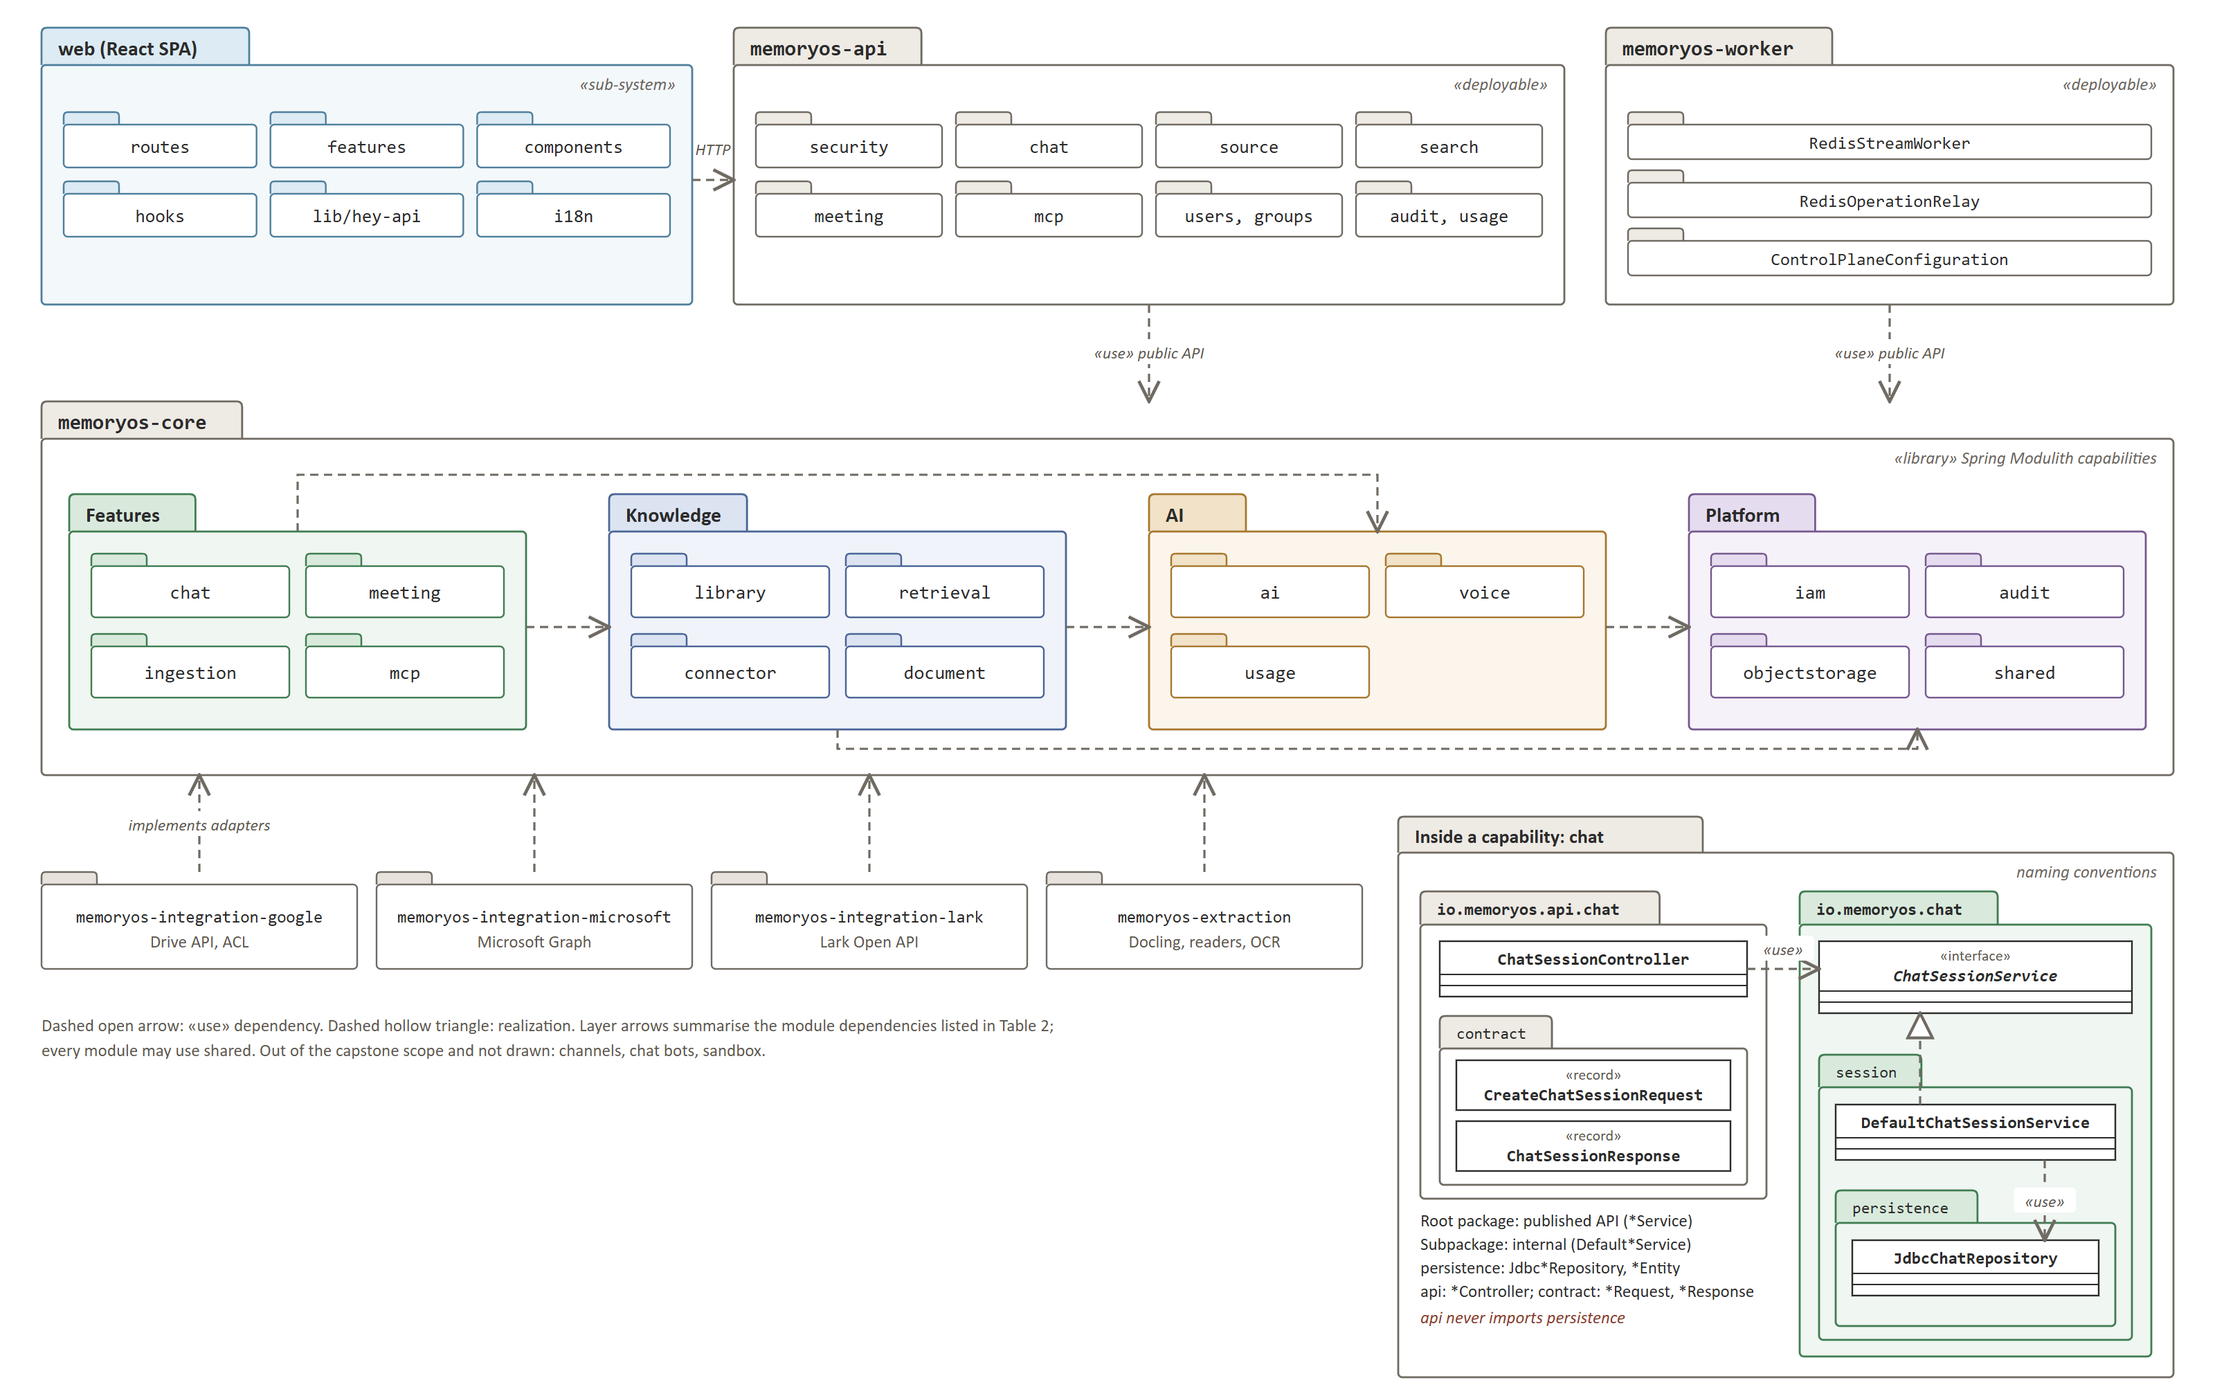
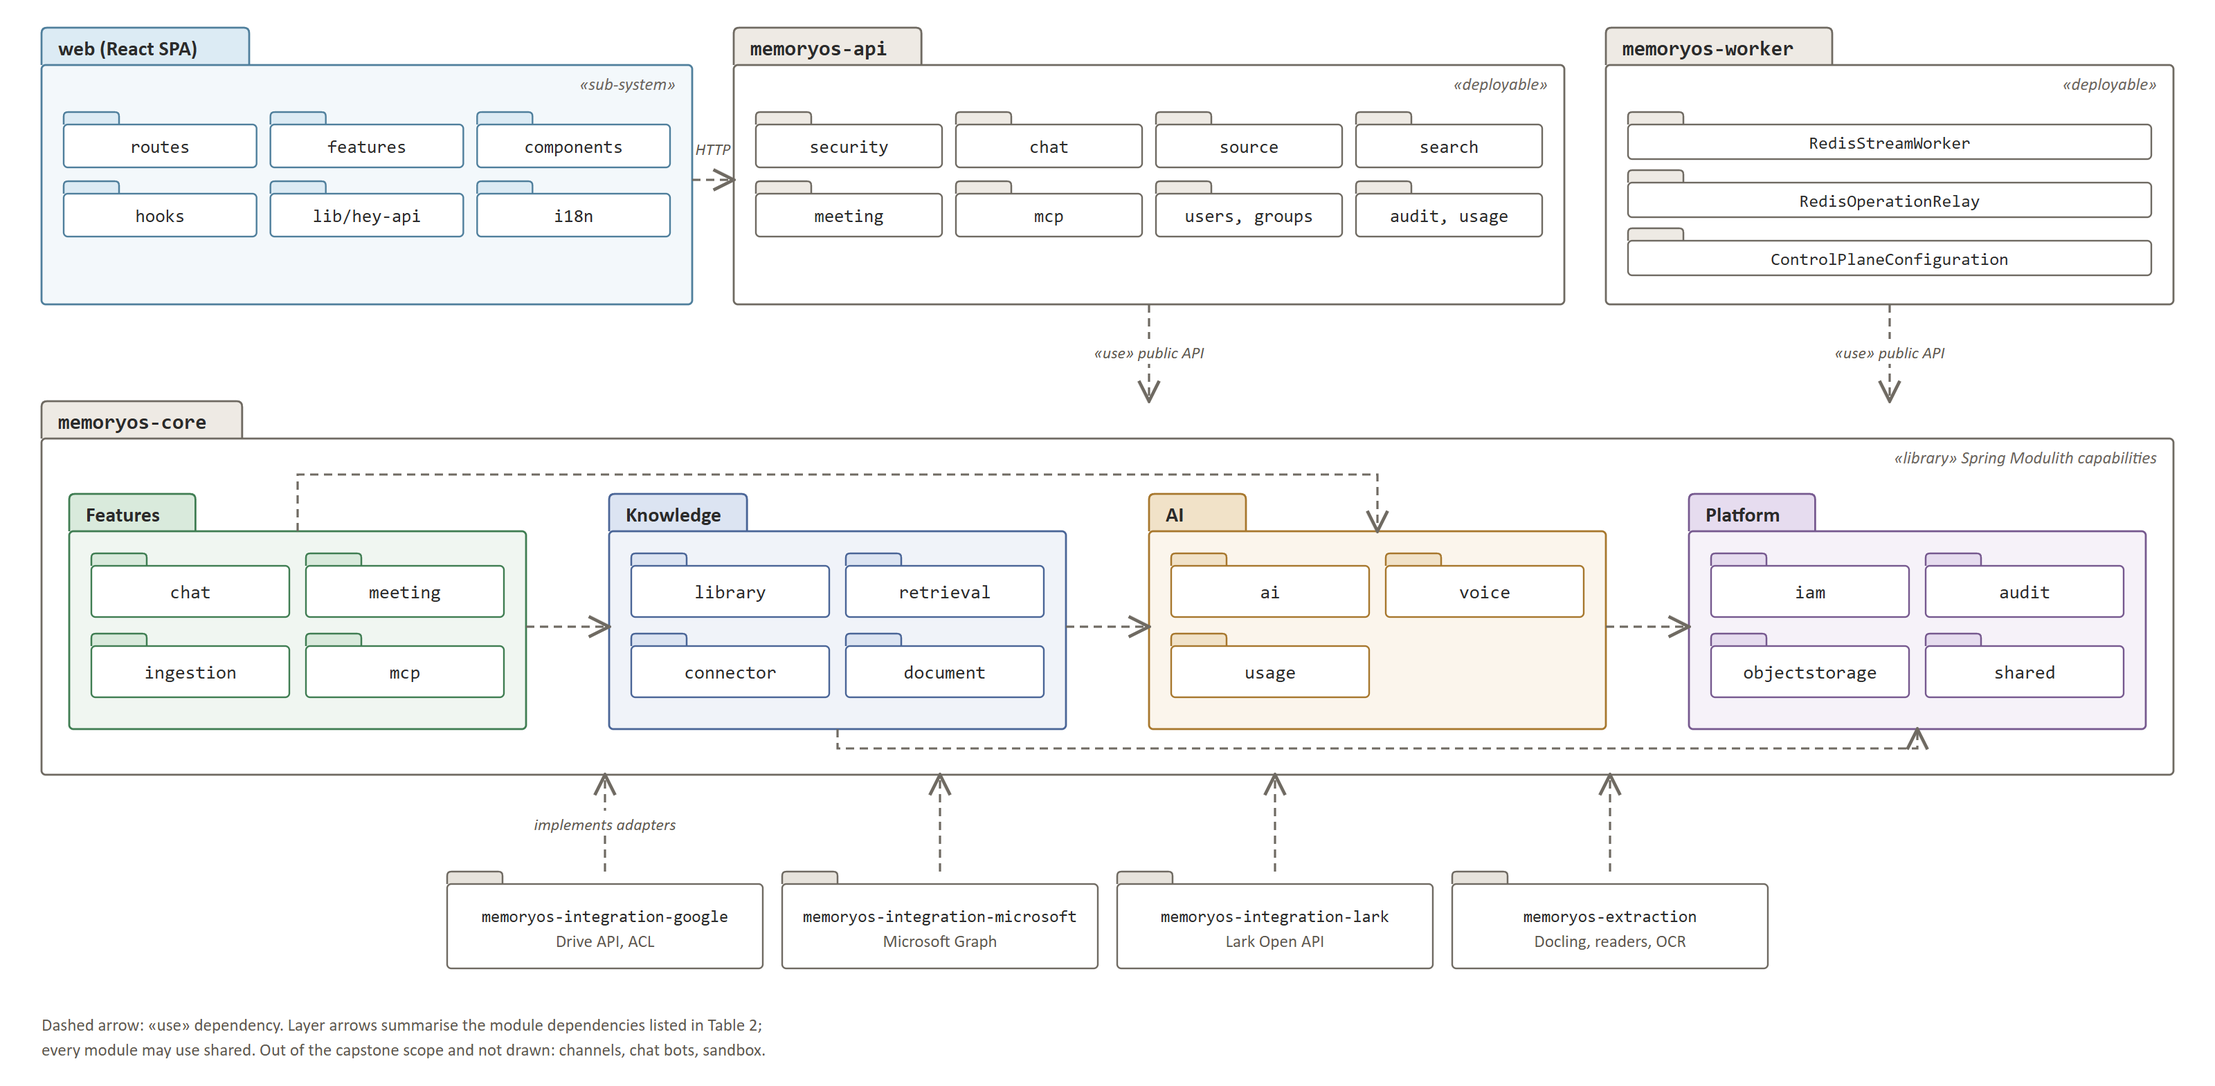
docs(sep490): drop the class inset from the Report 4 package diagram
The naming conventions move to Table 2; class diagrams belong to
section II.

diff --git a/docs/academic/sep490/diagrams/r4-package-diagram.html b/docs/academic/sep490/diagrams/r4-package-diagram.html
@@ -1,7 +1,7 @@
 <!doctype html><html lang="en"><head><meta charset="utf-8"><title>MemoryOS Package Diagram</title>
-<style>body{margin:0;background:#fff}svg{display:block}</style></head><body><svg id="diagram" xmlns="http://www.w3.org/2000/svg" viewBox="0 0 1600 1010" width="1600" height="1010">
-<defs><marker id="tri" viewBox="0 0 14 14" refX="13" refY="7" markerWidth="13" markerHeight="13" orient="auto-start-reverse"><path d="M1 1 L13 7 L1 13 Z" fill="#ffffff" stroke="#6f6a62" stroke-width="1.4"/></marker><marker id="open" viewBox="0 0 12 12" refX="11" refY="6" markerWidth="11" markerHeight="11" orient="auto-start-reverse"><path d="M1 1 L11 6 L1 11" fill="none" stroke="#6f6a62" stroke-width="1.6"/></marker></defs>
-<rect width="1600" height="1010" fill="#ffffff"/>
+<style>body{margin:0;background:#fff}svg{display:block}</style></head><body><svg id="diagram" xmlns="http://www.w3.org/2000/svg" viewBox="0 0 1600 785" width="1600" height="785">
+<defs><marker id="open" viewBox="0 0 12 12" refX="11" refY="6" markerWidth="11" markerHeight="11" orient="auto-start-reverse"><path d="M1 1 L11 6 L1 11" fill="none" stroke="#6f6a62" stroke-width="1.6"/></marker></defs>
+<rect width="1600" height="785" fill="#ffffff"/>
 <path d="M30 47 V24 q0 -4 4 -4 H176 q4 0 4 4 V47" fill="#dcebf4" stroke="#4f7f9c" stroke-width="1.4"/>
 <rect x="30" y="47" width="470" height="173" rx="3" fill="#f3f8fb" stroke="#4f7f9c" stroke-width="1.4"/>
 <text x="42" y="40" font-family="Calibri, 'Segoe UI', Arial, sans-serif" font-size="15" font-weight="700" fill="#2b2b2b">web (React SPA)</text>
@@ -139,78 +139,28 @@
 <path d="M1365 220 L1365 290" fill="none" stroke="#6f6a62" stroke-width="1.6" stroke-dasharray="6 4" marker-end="url(#open)"/>
 <rect x="1306.2" y="245" width="117.6" height="18" rx="3" fill="#ffffff"/>
 <text x="1365" y="259" text-anchor="middle" font-family="Calibri, 'Segoe UI', Arial, sans-serif" font-size="12" font-weight="400" font-style="italic" fill="#5d574f">«use» public API</text>
-<path d="M30 639 V633 q0 -3 3 -3 H67 q3 0 3 3 V639" fill="#e7e3dc" stroke="#6f6a62" stroke-width="1.2"/>
-<rect x="30" y="639" width="228" height="61" rx="3" fill="#ffffff" stroke="#6f6a62" stroke-width="1.2"/>
-<text x="144" y="666.5" text-anchor="middle" font-family="'JetBrains Mono', Consolas, monospace" font-size="12" font-weight="400"  fill="#2b2b2b">memoryos-integration-google</text>
-<text x="144" y="684.5" text-anchor="middle" font-family="Calibri, 'Segoe UI', Arial, sans-serif" font-size="12.5" font-weight="400"  fill="#5d574f">Drive API, ACL</text>
-<path d="M144 630 L144 560" fill="none" stroke="#6f6a62" stroke-width="1.6" stroke-dasharray="6 4" marker-end="url(#open)"/>
-<rect x="75.30000000000001" y="586" width="137.39999999999998" height="18" rx="3" fill="#ffffff"/>
-<text x="144" y="600" text-anchor="middle" font-family="Calibri, 'Segoe UI', Arial, sans-serif" font-size="12" font-weight="400" font-style="italic" fill="#5d574f">implements adapters</text>
-<path d="M272 639 V633 q0 -3 3 -3 H309 q3 0 3 3 V639" fill="#e7e3dc" stroke="#6f6a62" stroke-width="1.2"/>
-<rect x="272" y="639" width="228" height="61" rx="3" fill="#ffffff" stroke="#6f6a62" stroke-width="1.2"/>
-<text x="386" y="666.5" text-anchor="middle" font-family="'JetBrains Mono', Consolas, monospace" font-size="12" font-weight="400"  fill="#2b2b2b">memoryos-integration-microsoft</text>
-<text x="386" y="684.5" text-anchor="middle" font-family="Calibri, 'Segoe UI', Arial, sans-serif" font-size="12.5" font-weight="400"  fill="#5d574f">Microsoft Graph</text>
-<path d="M386 630 L386 560" fill="none" stroke="#6f6a62" stroke-width="1.6" stroke-dasharray="6 4" marker-end="url(#open)"/>
-<path d="M514 639 V633 q0 -3 3 -3 H551 q3 0 3 3 V639" fill="#e7e3dc" stroke="#6f6a62" stroke-width="1.2"/>
-<rect x="514" y="639" width="228" height="61" rx="3" fill="#ffffff" stroke="#6f6a62" stroke-width="1.2"/>
-<text x="628" y="666.5" text-anchor="middle" font-family="'JetBrains Mono', Consolas, monospace" font-size="12" font-weight="400"  fill="#2b2b2b">memoryos-integration-lark</text>
-<text x="628" y="684.5" text-anchor="middle" font-family="Calibri, 'Segoe UI', Arial, sans-serif" font-size="12.5" font-weight="400"  fill="#5d574f">Lark Open API</text>
-<path d="M628 630 L628 560" fill="none" stroke="#6f6a62" stroke-width="1.6" stroke-dasharray="6 4" marker-end="url(#open)"/>
-<path d="M756 639 V633 q0 -3 3 -3 H793 q3 0 3 3 V639" fill="#e7e3dc" stroke="#6f6a62" stroke-width="1.2"/>
-<rect x="756" y="639" width="228" height="61" rx="3" fill="#ffffff" stroke="#6f6a62" stroke-width="1.2"/>
-<text x="870" y="666.5" text-anchor="middle" font-family="'JetBrains Mono', Consolas, monospace" font-size="12" font-weight="400"  fill="#2b2b2b">memoryos-extraction</text>
-<text x="870" y="684.5" text-anchor="middle" font-family="Calibri, 'Segoe UI', Arial, sans-serif" font-size="12.5" font-weight="400"  fill="#5d574f">Docling, readers, OCR</text>
-<path d="M870 630 L870 560" fill="none" stroke="#6f6a62" stroke-width="1.6" stroke-dasharray="6 4" marker-end="url(#open)"/>
-<path d="M1010 616 V594 q0 -4 4 -4 H1226 q4 0 4 4 V616" fill="#eeeae4" stroke="#6f6a62" stroke-width="1.4"/>
-<rect x="1010" y="616" width="560" height="379" rx="3" fill="#ffffff" stroke="#6f6a62" stroke-width="1.4"/>
-<text x="1022" y="609" font-family="Calibri, 'Segoe UI', Arial, sans-serif" font-size="14" font-weight="700" fill="#2b2b2b">Inside a capability: chat</text>
-<text x="1558" y="634" text-anchor="end" font-family="Calibri, 'Segoe UI', Arial, sans-serif" font-size="12.5" font-style="italic" fill="#6b655c">naming conventions</text>
-<path d="M1026 668 V648 q0 -4 4 -4 H1194.8 q4 0 4 4 V668" fill="#eeeae4" stroke="#6f6a62" stroke-width="1.4"/>
-<rect x="1026" y="668" width="250" height="198" rx="3" fill="#ffffff" stroke="#6f6a62" stroke-width="1.4"/>
-<text x="1038" y="661" font-family="'JetBrains Mono', Consolas, monospace" font-size="12" font-weight="700" fill="#2b2b2b">io.memoryos.api.chat</text>
-<rect x="1040" y="680" width="222" height="40" fill="#ffffff" stroke="#2b2b2b" stroke-width="1.2"/>
-<text x="1151" y="697" text-anchor="middle" font-family="'JetBrains Mono', Consolas, monospace" font-size="12" font-weight="700"  fill="#2b2b2b">ChatSessionController</text>
-<path d="M1040 704 H1262 M1040 712 H1262" stroke="#2b2b2b" stroke-width="1"/>
-<path d="M1040 757.5 V738 q0 -4 4 -4 H1117.04 q4 0 4 4 V757.5" fill="#eeeae4" stroke="#6f6a62" stroke-width="1.4"/>
-<rect x="1040" y="757.5" width="222" height="98.5" rx="3" fill="#ffffff" stroke="#6f6a62" stroke-width="1.4"/>
-<text x="1052" y="750.5" font-family="'JetBrains Mono', Consolas, monospace" font-size="11.5" font-weight="400" fill="#2b2b2b">contract</text>
-<rect x="1052" y="766" width="198" height="36" fill="#ffffff" stroke="#2b2b2b" stroke-width="1.2"/>
-<text x="1151" y="780" text-anchor="middle" font-family="Calibri, 'Segoe UI', Arial, sans-serif" font-size="11" font-weight="400"  fill="#5d574f">«record»</text>
-<text x="1151" y="795" text-anchor="middle" font-family="'JetBrains Mono', Consolas, monospace" font-size="12" font-weight="700"  fill="#2b2b2b">CreateChatSessionRequest</text>
-<rect x="1052" y="810" width="198" height="36" fill="#ffffff" stroke="#2b2b2b" stroke-width="1.2"/>
-<text x="1151" y="824" text-anchor="middle" font-family="Calibri, 'Segoe UI', Arial, sans-serif" font-size="11" font-weight="400"  fill="#5d574f">«record»</text>
-<text x="1151" y="839" text-anchor="middle" font-family="'JetBrains Mono', Consolas, monospace" font-size="12" font-weight="700"  fill="#2b2b2b">ChatSessionResponse</text>
-<path d="M1300 668 V648 q0 -4 4 -4 H1439.04 q4 0 4 4 V668" fill="#d9eadc" stroke="#3f7d52" stroke-width="1.4"/>
-<rect x="1300" y="668" width="254" height="312" rx="3" fill="#f0f6f1" stroke="#3f7d52" stroke-width="1.4"/>
-<text x="1312" y="661" font-family="'JetBrains Mono', Consolas, monospace" font-size="12" font-weight="700" fill="#2b2b2b">io.memoryos.chat</text>
-<rect x="1314" y="680" width="226" height="52" fill="#ffffff" stroke="#2b2b2b" stroke-width="1.2"/>
-<text x="1427" y="694" text-anchor="middle" font-family="Calibri, 'Segoe UI', Arial, sans-serif" font-size="11" font-weight="400"  fill="#5d574f">«interface»</text>
-<text x="1427" y="709" text-anchor="middle" font-family="'JetBrains Mono', Consolas, monospace" font-size="12" font-weight="700" font-style="italic" fill="#2b2b2b">ChatSessionService</text>
-<path d="M1314 716 H1540 M1314 724 H1540" stroke="#2b2b2b" stroke-width="1"/>
-<path d="M1314 785.5 V766 q0 -4 4 -4 H1383.91 q4 0 4 4 V785.5" fill="#d9eadc" stroke="#3f7d52" stroke-width="1.4"/>
-<rect x="1314" y="785.5" width="226" height="182.5" rx="3" fill="#f0f6f1" stroke="#3f7d52" stroke-width="1.4"/>
-<text x="1326" y="778.5" font-family="'JetBrains Mono', Consolas, monospace" font-size="11.5" font-weight="400" fill="#2b2b2b">session</text>
-<rect x="1326" y="798" width="202" height="40" fill="#ffffff" stroke="#2b2b2b" stroke-width="1.2"/>
-<text x="1427" y="815" text-anchor="middle" font-family="'JetBrains Mono', Consolas, monospace" font-size="12" font-weight="700"  fill="#2b2b2b">DefaultChatSessionService</text>
-<path d="M1326 822 H1528 M1326 830 H1528" stroke="#2b2b2b" stroke-width="1"/>
-<path d="M1326 883.5 V864 q0 -4 4 -4 H1424.43 q4 0 4 4 V883.5" fill="#d9eadc" stroke="#3f7d52" stroke-width="1.4"/>
-<rect x="1326" y="883.5" width="202" height="74.5" rx="3" fill="#f0f6f1" stroke="#3f7d52" stroke-width="1.4"/>
-<text x="1338" y="876.5" font-family="'JetBrains Mono', Consolas, monospace" font-size="11.5" font-weight="400" fill="#2b2b2b">persistence</text>
-<rect x="1338" y="896" width="178" height="40" fill="#ffffff" stroke="#2b2b2b" stroke-width="1.2"/>
-<text x="1427" y="913" text-anchor="middle" font-family="'JetBrains Mono', Consolas, monospace" font-size="12" font-weight="700"  fill="#2b2b2b">JdbcChatRepository</text>
-<path d="M1338 920 H1516 M1338 928 H1516" stroke="#2b2b2b" stroke-width="1"/>
-<path d="M1262 700 L1314 700" fill="none" stroke="#6f6a62" stroke-width="1.6" stroke-dasharray="6 4" marker-end="url(#open)"/>
-<rect x="1265.5" y="676" width="45" height="18" rx="3" fill="#ffffff"/>
-<text x="1288" y="690" text-anchor="middle" font-family="Calibri, 'Segoe UI', Arial, sans-serif" font-size="12" font-weight="400" font-style="italic" fill="#5d574f">«use»</text>
-<path d="M1387 798 L1387 732" fill="none" stroke="#6f6a62" stroke-width="1.6" stroke-dasharray="6 4" marker-end="url(#tri)"/>
-<path d="M1477 838 L1477 896" fill="none" stroke="#6f6a62" stroke-width="1.6" stroke-dasharray="6 4" marker-end="url(#open)"/>
-<rect x="1454.5" y="858" width="45" height="18" rx="3" fill="#ffffff"/>
-<text x="1477" y="872" text-anchor="middle" font-family="Calibri, 'Segoe UI', Arial, sans-serif" font-size="12" font-weight="400" font-style="italic" fill="#5d574f">«use»</text>
-<text x="1026" y="886" text-anchor="start" font-family="Calibri, 'Segoe UI', Arial, sans-serif" font-size="12.5" font-weight="400"  fill="#2b2b2b">Root package: published API (*Service)</text>
-<text x="1026" y="903" text-anchor="start" font-family="Calibri, 'Segoe UI', Arial, sans-serif" font-size="12.5" font-weight="400"  fill="#2b2b2b">Subpackage: internal (Default*Service)</text>
-<text x="1026" y="920" text-anchor="start" font-family="Calibri, 'Segoe UI', Arial, sans-serif" font-size="12.5" font-weight="400"  fill="#2b2b2b">persistence: Jdbc*Repository, *Entity</text>
-<text x="1026" y="937" text-anchor="start" font-family="Calibri, 'Segoe UI', Arial, sans-serif" font-size="12.5" font-weight="400"  fill="#2b2b2b">api: *Controller; contract: *Request, *Response</text>
-<text x="1026" y="956" text-anchor="start" font-family="Calibri, 'Segoe UI', Arial, sans-serif" font-size="12.5" font-weight="400" font-style="italic" fill="#8a3b2b">api never imports persistence</text>
-<text x="30" y="745" text-anchor="start" font-family="Calibri, 'Segoe UI', Arial, sans-serif" font-size="12.5" font-weight="400"  fill="#5d574f">Dashed open arrow: «use» dependency. Dashed hollow triangle: realization. Layer arrows summarise the module dependencies listed in Table 2;</text>
+<path d="M323 639 V633 q0 -3 3 -3 H360 q3 0 3 3 V639" fill="#e7e3dc" stroke="#6f6a62" stroke-width="1.2"/>
+<rect x="323" y="639" width="228" height="61" rx="3" fill="#ffffff" stroke="#6f6a62" stroke-width="1.2"/>
+<text x="437" y="666.5" text-anchor="middle" font-family="'JetBrains Mono', Consolas, monospace" font-size="12" font-weight="400"  fill="#2b2b2b">memoryos-integration-google</text>
+<text x="437" y="684.5" text-anchor="middle" font-family="Calibri, 'Segoe UI', Arial, sans-serif" font-size="12.5" font-weight="400"  fill="#5d574f">Drive API, ACL</text>
+<path d="M437 630 L437 560" fill="none" stroke="#6f6a62" stroke-width="1.6" stroke-dasharray="6 4" marker-end="url(#open)"/>
+<rect x="368.3" y="586" width="137.39999999999998" height="18" rx="3" fill="#ffffff"/>
+<text x="437" y="600" text-anchor="middle" font-family="Calibri, 'Segoe UI', Arial, sans-serif" font-size="12" font-weight="400" font-style="italic" fill="#5d574f">implements adapters</text>
+<path d="M565 639 V633 q0 -3 3 -3 H602 q3 0 3 3 V639" fill="#e7e3dc" stroke="#6f6a62" stroke-width="1.2"/>
+<rect x="565" y="639" width="228" height="61" rx="3" fill="#ffffff" stroke="#6f6a62" stroke-width="1.2"/>
+<text x="679" y="666.5" text-anchor="middle" font-family="'JetBrains Mono', Consolas, monospace" font-size="12" font-weight="400"  fill="#2b2b2b">memoryos-integration-microsoft</text>
+<text x="679" y="684.5" text-anchor="middle" font-family="Calibri, 'Segoe UI', Arial, sans-serif" font-size="12.5" font-weight="400"  fill="#5d574f">Microsoft Graph</text>
+<path d="M679 630 L679 560" fill="none" stroke="#6f6a62" stroke-width="1.6" stroke-dasharray="6 4" marker-end="url(#open)"/>
+<path d="M807 639 V633 q0 -3 3 -3 H844 q3 0 3 3 V639" fill="#e7e3dc" stroke="#6f6a62" stroke-width="1.2"/>
+<rect x="807" y="639" width="228" height="61" rx="3" fill="#ffffff" stroke="#6f6a62" stroke-width="1.2"/>
+<text x="921" y="666.5" text-anchor="middle" font-family="'JetBrains Mono', Consolas, monospace" font-size="12" font-weight="400"  fill="#2b2b2b">memoryos-integration-lark</text>
+<text x="921" y="684.5" text-anchor="middle" font-family="Calibri, 'Segoe UI', Arial, sans-serif" font-size="12.5" font-weight="400"  fill="#5d574f">Lark Open API</text>
+<path d="M921 630 L921 560" fill="none" stroke="#6f6a62" stroke-width="1.6" stroke-dasharray="6 4" marker-end="url(#open)"/>
+<path d="M1049 639 V633 q0 -3 3 -3 H1086 q3 0 3 3 V639" fill="#e7e3dc" stroke="#6f6a62" stroke-width="1.2"/>
+<rect x="1049" y="639" width="228" height="61" rx="3" fill="#ffffff" stroke="#6f6a62" stroke-width="1.2"/>
+<text x="1163" y="666.5" text-anchor="middle" font-family="'JetBrains Mono', Consolas, monospace" font-size="12" font-weight="400"  fill="#2b2b2b">memoryos-extraction</text>
+<text x="1163" y="684.5" text-anchor="middle" font-family="Calibri, 'Segoe UI', Arial, sans-serif" font-size="12.5" font-weight="400"  fill="#5d574f">Docling, readers, OCR</text>
+<path d="M1163 630 L1163 560" fill="none" stroke="#6f6a62" stroke-width="1.6" stroke-dasharray="6 4" marker-end="url(#open)"/>
+<text x="30" y="745" text-anchor="start" font-family="Calibri, 'Segoe UI', Arial, sans-serif" font-size="12.5" font-weight="400"  fill="#5d574f">Dashed arrow: «use» dependency. Layer arrows summarise the module dependencies listed in Table 2;</text>
 <text x="30" y="763" text-anchor="start" font-family="Calibri, 'Segoe UI', Arial, sans-serif" font-size="12.5" font-weight="400"  fill="#5d574f">every module may use shared. Out of the capstone scope and not drawn: channels, chat bots, sandbox.</text>
 </svg></body></html>

diff --git a/docs/academic/sep490/diagrams/README.md b/docs/academic/sep490/diagrams/README.md
@@ -34,4 +34,4 @@ Bản chỉnh sửa là file JSON, dựng bằng skill archify: `node .claude/sk
 
 PNG chụp ở tỉ lệ 2x từ bản HTML, nền trắng, ẩn thanh công cụ và chú giải của viewer. Khi sửa JSON thì dựng lại HTML rồi chụp lại PNG.
 
-- [Package diagram](r4-package-diagram.png) (mục I.2): archify chưa có loại package diagram nên hình này vẽ tay bằng SVG theo ký hiệu UML (package có tab, class box ba ngăn, `«use»`, realization). Nguồn là script [r4-package-diagram.mjs](r4-package-diagram.mjs); chạy `node docs/academic/sep490/diagrams/r4-package-diagram.mjs` để sinh [r4-package-diagram.html](r4-package-diagram.html), rồi chụp phần tử `#diagram` ở tỉ lệ 2x thành PNG. Bốn tầng của `memoryos-core` tóm tắt `allowedDependencies` trong các `package-info.java` sau khi bỏ cạnh bắc cầu (49 còn 18); ô "Inside a capability: chat" dùng class thật của module `chat`.
+- [Package diagram](r4-package-diagram.png) (mục I.2): archify chưa có loại package diagram nên hình này vẽ tay bằng SVG theo ký hiệu UML (package có tab, phụ thuộc `«use»`). Nguồn là script [r4-package-diagram.mjs](r4-package-diagram.mjs); chạy `node docs/academic/sep490/diagrams/r4-package-diagram.mjs` để sinh [r4-package-diagram.html](r4-package-diagram.html), rồi chụp phần tử `#diagram` ở tỉ lệ 2x thành PNG. Bốn tầng của `memoryos-core` tóm tắt `allowedDependencies` trong các `package-info.java` sau khi bỏ cạnh bắc cầu (49 còn 18). Quy ước đặt tên class nằm trong Table 2 của report, không vẽ trong hình.
